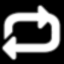
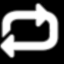
added ping pong mode

Changed region(s): [[0.0, 0.0312, 0.8438, 0.7812], [0.1562, 0.25, 0.9688, 0.9688], [0.7188, 0.1562, 0.875, 0.25]]

diff --git a/gui/python/rating.py b/gui/python/rating.py
@@ -199,6 +199,7 @@ class RateAndCutDialog(QDialog):
             self.cutMode=cutMode
             cutModeFolderOverrideActive=False
             self.wait_dialog = None
+            self.playtype_pingpong=False
             
             rescanFilesToRate()
             
@@ -227,10 +228,9 @@ class RateAndCutDialog(QDialog):
             self.setLayout(self.outer_main_layout)
             self.setStyleSheet("background-color : black;")
 
+            self.cutMode_toolbar = QToolBar(self)
+            self.cutMode_toolbar.setVisible(True)
             if cutMode:
-                self.cutMode_toolbar = QToolBar(self)
-                self.cutMode_toolbar.setVisible(True)
-
                 self.iconFolderAction = StyledIcon(os.path.join(path, '../../gui/img/folder64.png'))
                 self.folderAction = QAction(self.iconFolderAction, "Select Custom Folder")
                 self.folderAction.setCheckable(True)
@@ -239,17 +239,30 @@ class RateAndCutDialog(QDialog):
                 self.cutMode_toolbar.addAction(self.folderAction)
                 self.cutMode_toolbar.widgetForAction(self.folderAction).setCursor(Qt.PointingHandCursor)
 
-                self.iconOpenFolderAction = StyledIcon(os.path.join(path, '../../gui/img/explorer64.png'))
-                self.openFolderAction = QAction(self.iconOpenFolderAction, "Open Folder")
-                self.openFolderAction.setCheckable(False)
-                self.openFolderAction.setVisible(True)
-                self.openFolderAction.triggered.connect(self.onOpenFolder)
-                self.cutMode_toolbar.addAction(self.openFolderAction)
-                self.cutMode_toolbar.widgetForAction(self.openFolderAction).setCursor(Qt.PointingHandCursor)
+            self.iconOpenFolderAction = StyledIcon(os.path.join(path, '../../gui/img/explorer64.png'))
+            self.openFolderAction = QAction(self.iconOpenFolderAction, "Open Folder")
+            self.openFolderAction.setCheckable(False)
+            self.openFolderAction.setVisible(True)
+            self.openFolderAction.triggered.connect(self.onOpenFolder)
+            self.cutMode_toolbar.addAction(self.openFolderAction)
+            self.cutMode_toolbar.widgetForAction(self.openFolderAction).setCursor(Qt.PointingHandCursor)
 
-                self.outer_main_layout.addWidget(self.cutMode_toolbar)
-                self.cutMode_toolbar.setContentsMargins(0,0,0,0)
+            self.cutMode_toolbar.addSeparator()
 
+            self.toggle_playtype_icon_false = QIcon(os.path.join(path, '../../gui/img/replay64.png'))
+            self.toggle_playtype_icon_true = QIcon(os.path.join(path, '../../gui/img/pingpong64.png'))
+            self.iconPlayTypeAction = QAction(self.toggle_playtype_icon_true if self.playtype_pingpong else self.toggle_playtype_icon_false, "Change Playtype")
+            self.iconPlayTypeAction.setCheckable(True)
+            self.iconPlayTypeAction.setChecked(self.playtype_pingpong)
+            self.iconPlayTypeAction.setVisible(True)
+            self.iconPlayTypeAction.triggered.connect(self.onPlayTypeAction)
+            self.cutMode_toolbar.addAction(self.iconPlayTypeAction)
+            self.cutMode_toolbar.widgetForAction(self.iconPlayTypeAction).setCursor(Qt.PointingHandCursor)
+
+            self.outer_main_layout.addWidget(self.cutMode_toolbar)
+            self.cutMode_toolbar.setContentsMargins(0,0,0,0)
+
+            if cutMode:
                 self.dirlabel=QLabel("")
                 self.dirlabel.setStyleSheet("QLabel { background-color : black; color : white; }");
                 self.outer_main_layout.addWidget(self.dirlabel)
@@ -913,6 +926,12 @@ class RateAndCutDialog(QDialog):
             QApplication.restoreOverrideCursor()
             leaveUITask()
            
+    def onPlayTypeAction(self, state):
+        self.playtype_pingpong = state
+        self.iconPlayTypeAction.setIcon(self.toggle_playtype_icon_true if self.playtype_pingpong else self.toggle_playtype_icon_false)
+        if not self.display.thread is None:
+            self.display.thread.setPingPongModeEnabled(self.playtype_pingpong)
+        
     def onOpenFolder(self, state):
         if cutModeFolderOverrideActive:
             dirPath=cutModeFolderOverridePath
@@ -1581,6 +1600,8 @@ class VideoThread(QThread):
         self.frame_count=-1
         self.fps=1
         self._run_flag = False
+        self.pingPongModeEnabled=False
+        self.pingPongReverseState=False
         #print("Created thread with uid " + str(uid) , flush=True)
 
     def run(self):
@@ -1639,24 +1660,44 @@ class VideoThread(QThread):
 
         self.currentFrame=-1      # before start. first frame will be number 0
         while self._run_flag:
+            timestamp=time.time() 
             if not self.pause:
-                if self.currentFrame+1>self.b or self.currentFrame+1<self.a:
-                    #print("replay", flush=True)
-                    self.seek(self.a)
+                if self.pingPongModeEnabled and self.pingPongReverseState and self.currentFrame>self.a:
+                    self.currentFrame-=1
+                    self.seek(self.currentFrame)
+                elif self.pingPongModeEnabled and self.pingPongReverseState and self.currentFrame<=self.a:
+                    self.pingPongReverseState=False
+                    self.currentFrame=self.a
+                    if self.currentFrame+1<=self.b:
+                        self.currentFrame+=1
+                        self.seek(self.currentFrame)
                 else:
-                    ret, cv_img = self.cap.read()
-                    if self._run_flag:
-                        if ret and not cv_img is None:
-                            self.currentFrame+=1
-                            self.slider.setValue(self.currentFrame)
-                            self.change_pixmap_signal.emit(cv_img, self.uid)
+                    if self.currentFrame+1>self.b:
+                        if self.pingPongModeEnabled:
+                            self.pingPongReverseState=True
+                            if self.b-1 >= self.a:
+                                self.seek(self.b-1)
                         else:
-                            print("Error: failed to load frame", self.currentFrame)
-                            self.cap.release()
-                            self.cap = cv2.VideoCapture(self.filepath)
-                            self.seek(self.a)
+                            self.seek(self.a)   # replay
+                    elif self.currentFrame+1<self.a:
+                        self.seek(self.a)
+                    else:
+                        ret, cv_img = self.cap.read()
+                        if self._run_flag:
+                            if ret and not cv_img is None:
+                                self.currentFrame+=1
+                                self.slider.setValue(self.currentFrame)
+                                self.change_pixmap_signal.emit(cv_img, self.uid)
+                            else:
+                                print("Error: failed to load frame", self.currentFrame)
+                                self.cap.release()
+                                self.cap = cv2.VideoCapture(self.filepath)
+                                self.seek(self.a)
 
-            time.sleep(1.0/float(self.fps))
+            elapsed = time.time()-timestamp
+            sleeptime = 1.0/float(self.fps) - elapsed
+            if sleeptime>0:
+                time.sleep(sleeptime)
             
         self.cap.release()
         videoActive=False
@@ -1700,7 +1741,11 @@ class VideoThread(QThread):
             self.change_pixmap_signal.emit(cv_img, self.uid)
         else:
             self._run_flag = False
-                
+
+    def setPingPongModeEnabled(self, state):
+        self.pingPongModeEnabled=state
+        self.pingPongReverseState=False
+
     def sliderChanged(self):
         if self.pause:  # do not call while playback
             #print("sliderChanged. seek", self.sender().value(), flush=True)
